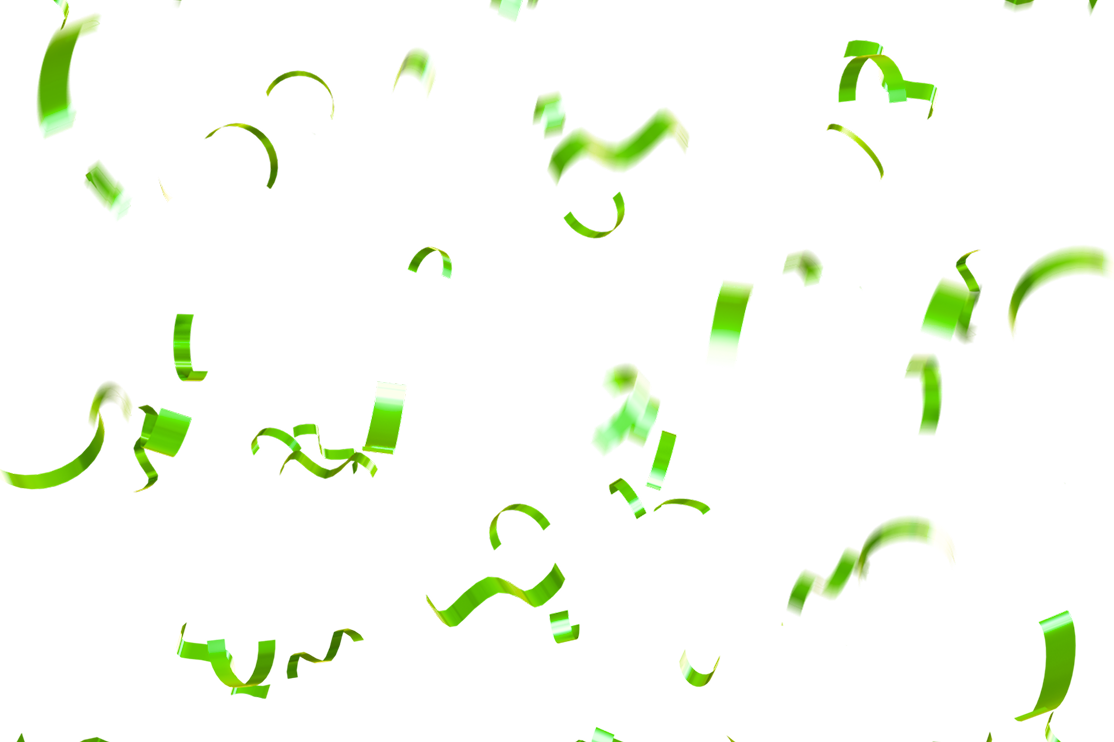
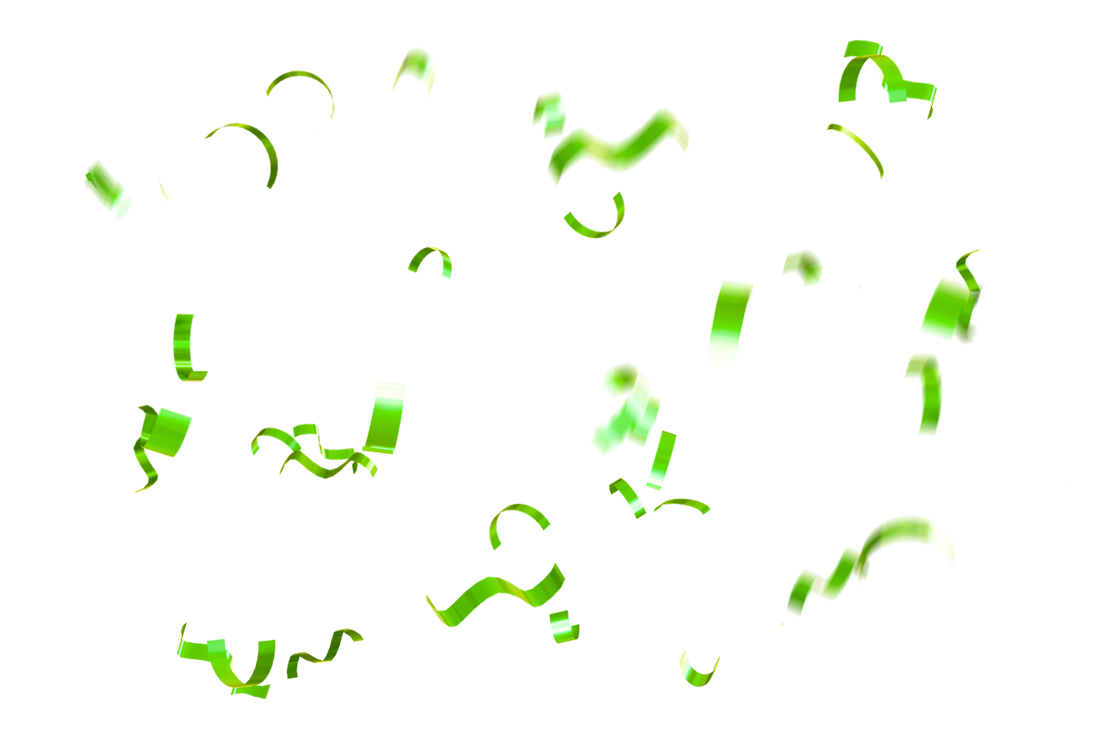
Сборка баннеров: свечения и дым не обрезаются прямоугольником, конфетти без срезанных краем кусочков
Прозрачные поля картинки и фигуры обрезаются теперь только там, где альфа ровно ноль:
порог 8 отрезал плавный хвост свечений, и на баннере был виден ровный срез.
Из конфетти убраны кусочки, срезанные краем файла; тест следит, чтобы фигуры не упирались в край.

diff --git a/web/js/bannerfx.js b/web/js/bannerfx.js
@@ -225,7 +225,8 @@ async function bmFxPut(id, name, pix, signal) {
 }
 
 // ---------- источники: элемент без прозрачных полей ----------
-// холст непрозрачной части картинки (альфа больше 8 из 255); совсем прозрачная — целиком
+// холст непрозрачной части картинки (альфа больше нуля); совсем прозрачная — целиком.
+// Порог именно ноль: у свечений и дыма хвост с альфой в единицы, срез по нему виден ровным прямоугольником
 function bmTrimCanvas(img) {
   const W = img.naturalWidth || img.width, H = img.naturalHeight || img.height;
   const c = document.createElement('canvas'); c.width = W; c.height = H;
@@ -233,7 +234,7 @@ function bmTrimCanvas(img) {
   const d = g.getImageData(0, 0, W, H).data;
   let x0 = W, y0 = H, x1 = -1, y1 = -1;
   for (let y = 0; y < H; y++) for (let x = 0; x < W; x++) {
-    if (d[(y * W + x) * 4 + 3] > 8) { if (x < x0) x0 = x; if (x > x1) x1 = x; if (y < y0) y0 = y; if (y > y1) y1 = y; }
+    if (d[(y * W + x) * 4 + 3] > 0) { if (x < x0) x0 = x; if (x > x1) x1 = x; if (y < y0) y0 = y; if (y > y1) y1 = y; }
   }
   if (x1 < 0) { x0 = 0; y0 = 0; x1 = W - 1; y1 = H - 1; }
   const o = document.createElement('canvas'); o.width = x1 - x0 + 1; o.height = y1 - y0 + 1;

diff --git a/bannermake_test.go b/bannermake_test.go
@@ -78,6 +78,43 @@ func TestBmkShapes(t *testing.T) {
 	}
 }
 
+// фигура не обрезана краем своего файла: иначе посреди баннера виден ровный срез (кусок конфетти, хвост свечения).
+// Касаться края можно только острым углом — вершина треугольника, пара пикселей на сторону
+func TestBmkShapesEdge(t *testing.T) {
+	for _, n := range bmkShapes() {
+		raw, err := webFS.ReadFile("web/bannershapes/" + n + ".png")
+		if err != nil {
+			t.Fatal(err)
+		}
+		img, err := png.Decode(bytes.NewReader(raw))
+		if err != nil {
+			t.Fatalf("%s: %v", n, err)
+		}
+		b := img.Bounds()
+		solid := func(x, y int) bool { _, _, _, a := img.At(x, y).RGBA(); return a > 24*0x101 }
+		count := func(pts func(i int) (int, int), n int) (c int) {
+			for i := 0; i < n; i++ {
+				if solid(pts(i)) {
+					c++
+				}
+			}
+			return
+		}
+		W, H := b.Dx(), b.Dy()
+		sides := map[string]int{
+			"слева":  count(func(i int) (int, int) { return b.Min.X, b.Min.Y + i }, H),
+			"справа": count(func(i int) (int, int) { return b.Max.X - 1, b.Min.Y + i }, H),
+			"сверху": count(func(i int) (int, int) { return b.Min.X + i, b.Min.Y }, W),
+			"снизу":  count(func(i int) (int, int) { return b.Min.X + i, b.Max.Y - 1 }, W),
+		}
+		for s, c := range sides {
+			if c > 3 {
+				t.Errorf("%s: %s упирается в край файла (%d px), срез будет виден", n, s, c)
+			}
+		}
+	}
+}
+
 // страница присылает баннер не того размера или чужое имя — ошибка, файлы не пишутся
 func TestBmkOneBad(t *testing.T) {
 	dir := t.TempDir()
